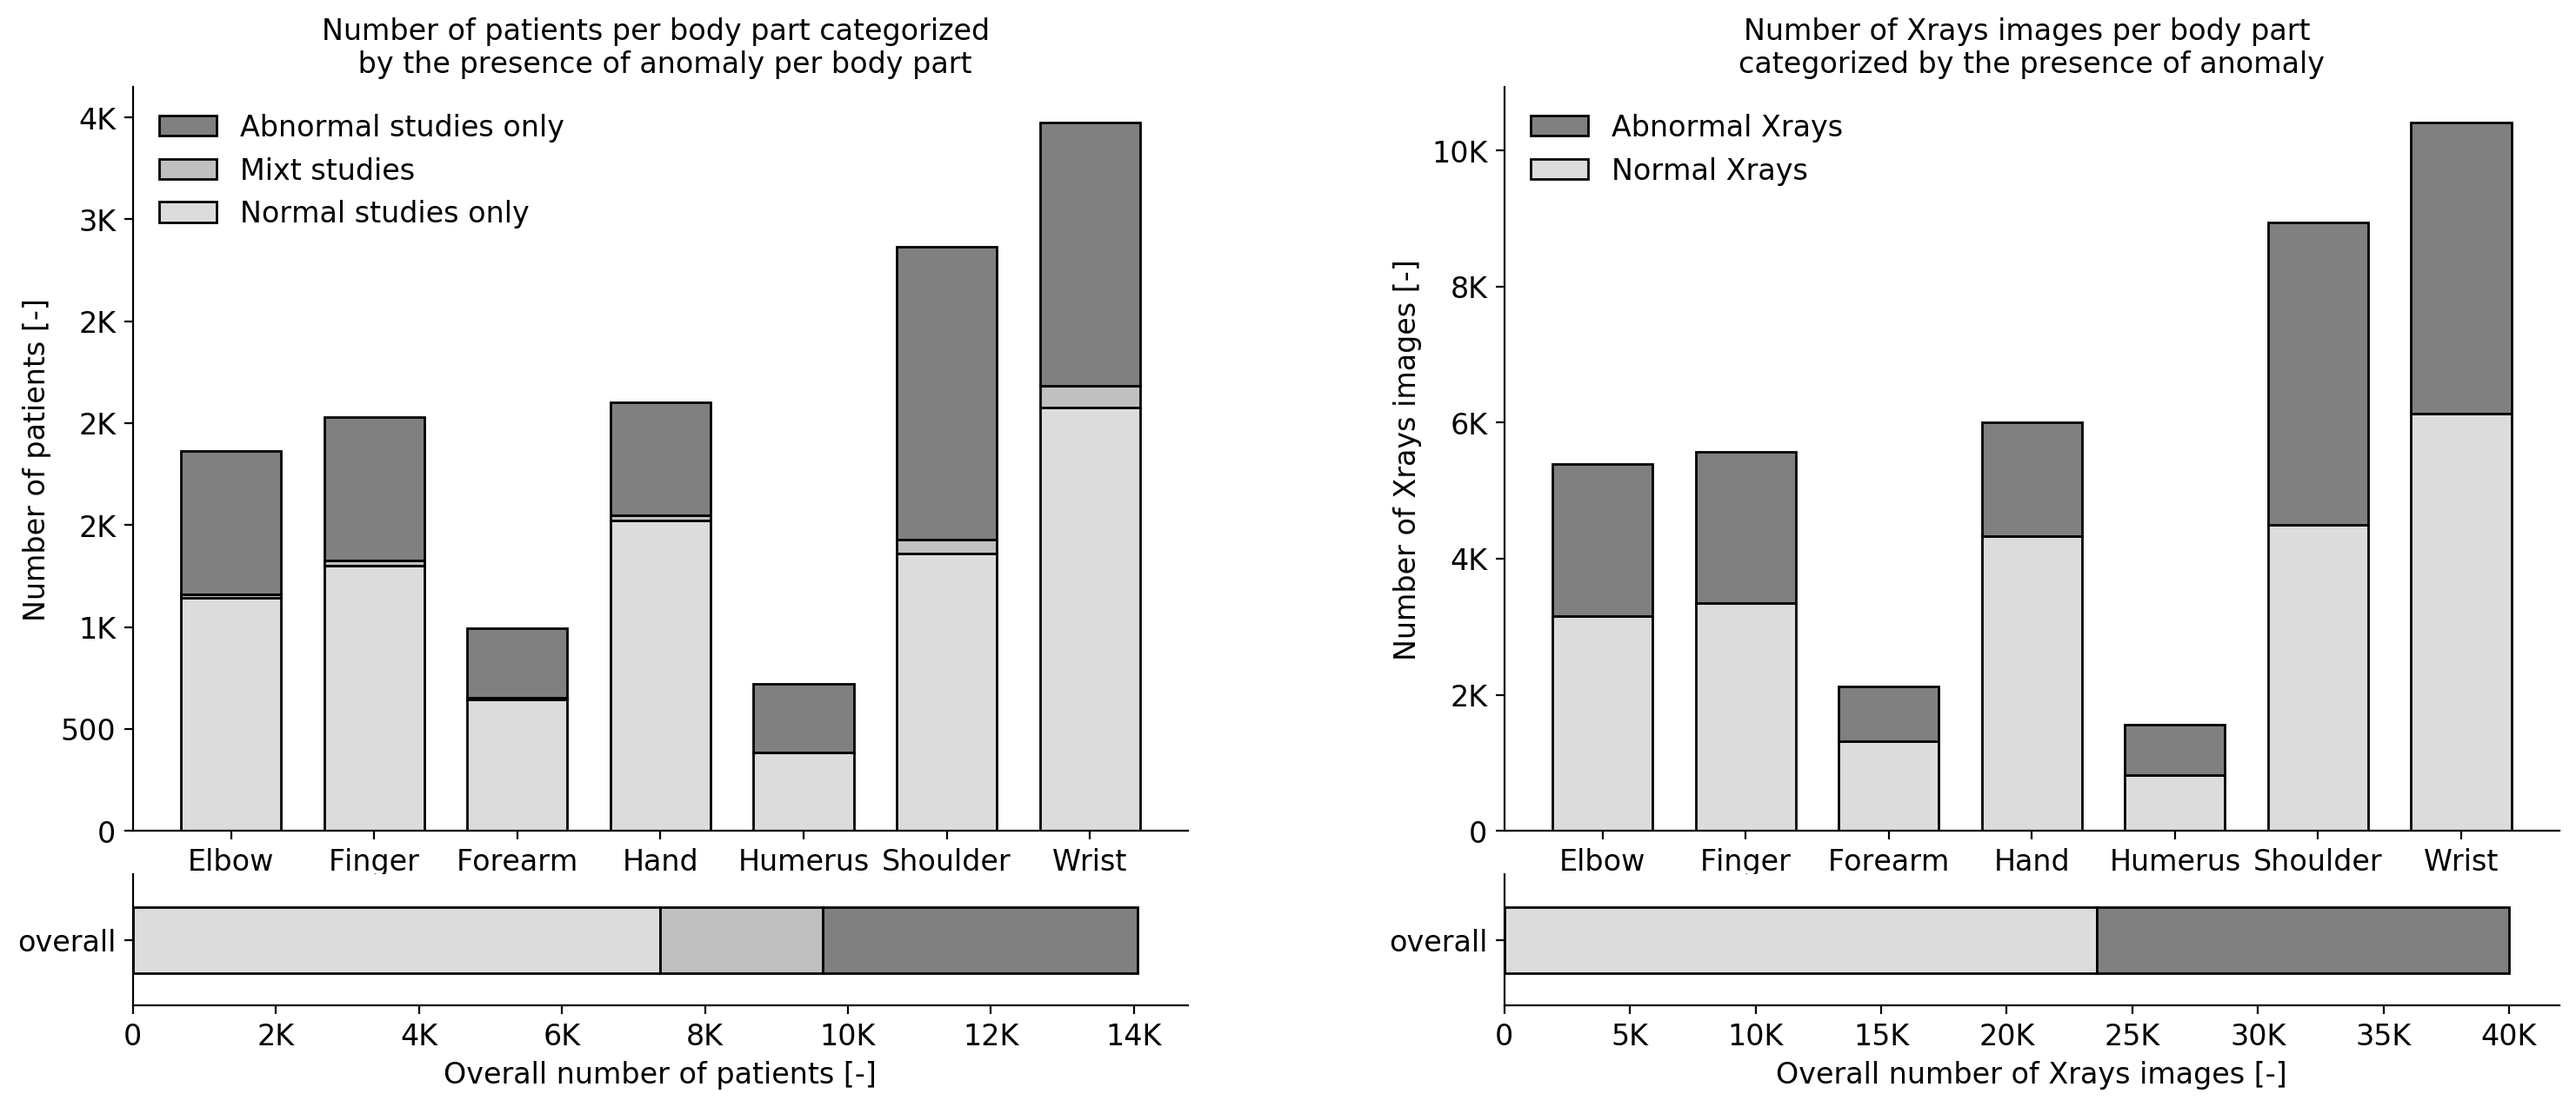
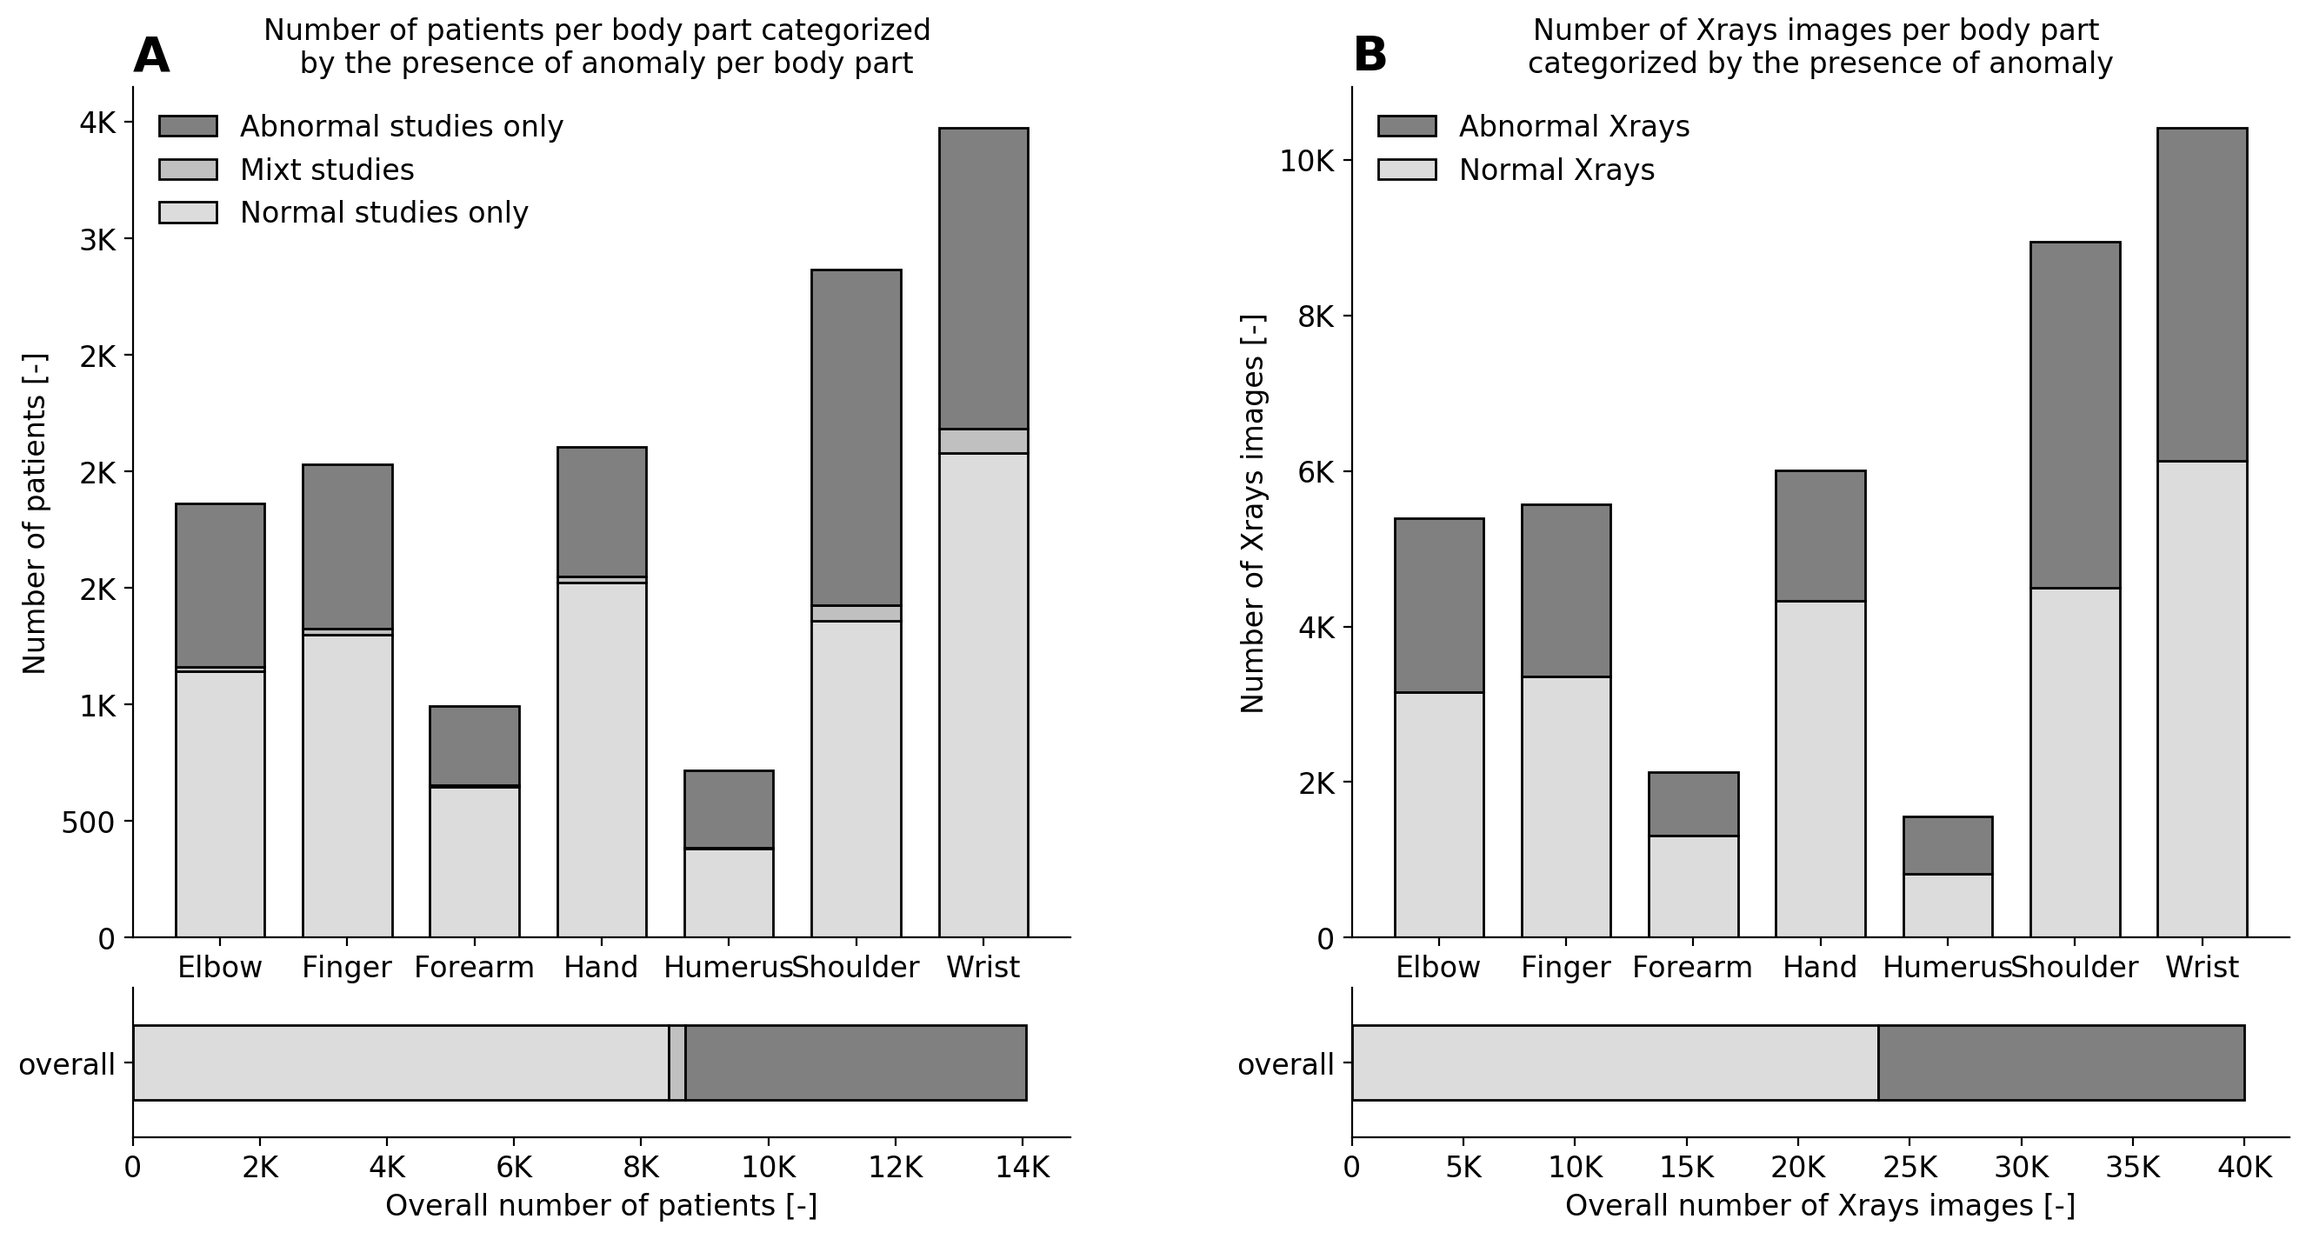
figures of rect cropping and online preprocessing + small change on others

diff --git a/Code/Figures_script/data_repartition.py b/Code/Figures_script/data_repartition.py
@@ -4,9 +4,9 @@ import pandas as pd
 import matplotlib
 import matplotlib.pyplot as plt
 
-DATA_PATH = r'../data/'
-OUTPUT_PATH = r'../Outputs/'
-FIGURE_PATH = r'../Figures/'
+DATA_PATH = r'../../data/'
+OUTPUT_PATH = r'../../Outputs/'
+FIGURE_PATH = r'../../Figures/'
 FIG_RES = 200 # dpi
 transparent = False
 
@@ -52,9 +52,9 @@ abnormal_xr_count = np.array(df_xr.loc[df_xr.abnormal_XR == 1, 'patientID'])
 # %% get overall numbers
 ################################################################################
 df_patient = df.groupby(['body_part', 'patientID']).mean()
-patient_normal = df_patient.patient_any_abnormal.value_counts()[0.0]
-patient_mixt = df_patient.patient_any_abnormal.value_counts()[0.5]
-patient_abnormal = df_patient.patient_any_abnormal.value_counts()[1.0]
+patient_normal = df_patient.body_part_abnormal.value_counts()[0.0]
+patient_mixt = df_patient.body_part_abnormal.value_counts()[0.5]
+patient_abnormal = df_patient.body_part_abnormal.value_counts()[1.0]
 xr_normal = df.abnormal_XR.value_counts()[0]
 xr_abnormal = df.abnormal_XR.value_counts()[1]
 
@@ -66,7 +66,7 @@ colors1 = ['gainsboro', 'silver', 'gray']
 colors2 = ['gainsboro', 'gray']
 
 #fig, axs = plt.subplots(2,2,figsize=(14,7), gridspec_kw={'height_ratios':[0.85, 0.15]})
-fig = plt.figure(figsize=(18,7))
+fig = plt.figure(figsize=(16,8))
 if transparent: fig.patch.set_alpha(0) # transparent background
 gs = fig.add_gridspec(2, 2, wspace=0.3, hspace=0.1, height_ratios=[0.85, 0.15])
 #===============================================================================
@@ -90,6 +90,7 @@ axp.spines['right'].set_visible(False)
 axp.spines['top'].set_visible(False)
 axp.tick_params(axis='both', labelsize=12)
 axp.yaxis.set_major_formatter(matplotlib.ticker.FuncFormatter(human_format))
+axp.text(0, 1.02, 'A', fontsize=20, fontweight='bold', transform=axp.transAxes)
 #===============================================================================
 # Overall plot
 axp_all = fig.add_subplot(gs[1,0])
@@ -126,6 +127,7 @@ axxr.spines['right'].set_visible(False)
 axxr.spines['top'].set_visible(False)
 axxr.tick_params(axis='both', labelsize=12)
 axxr.yaxis.set_major_formatter(matplotlib.ticker.FuncFormatter(human_format))
+axxr.text(0, 1.02, 'B', fontsize=20, fontweight='bold', transform=axxr.transAxes)
 #===============================================================================
 # Overall plot
 axxr_all = fig.add_subplot(gs[1,1])

diff --git a/Code/Figures_script/rectangle_cropping.py b/Code/Figures_script/rectangle_cropping.py
@@ -1,0 +1,63 @@
+import numpy as np
+import pandas as pd
+from skimage.color import rgb2gray
+from skimage.io import imread
+import matplotlib
+import matplotlib.pyplot as plt
+import sys
+sys.path.append('../')
+
+import src.preprocessing.cropping_rect as croprect
+
+DATA_PATH = r'../../data/'
+OUTPUT_PATH = r'../../Outputs/'
+FIGURE_PATH = r'../../Figures/'
+FIG_RES = 200 # dpi
+transparent = True
+save_fig = True
+
+# %% Load info and some example images
+################################################################################
+df = pd.read_csv(DATA_PATH+'data_info.csv')
+df = df.drop(df.columns[0], axis=1)
+
+df_cropped = df[df.uncropped == 0].reset_index()
+df_uncropped = df[df.uncropped == 1].reset_index()
+
+cropped_idx = [11000, 19000, 7000, 2000, 3000, 4000]
+uncropped_idx = [9000, 8000, 6000, 4500, 6500, 7500]
+#fn = df_cropped.loc[5000,'filename']
+#fn = df_uncropped.loc[9500,'filename']
+fn_crop = [df_cropped.loc[i,'filename'] for i in cropped_idx]
+fn_uncrop = [df_uncropped.loc[i,'filename'] for i in uncropped_idx]
+
+# %%
+img = imread(DATA_PATH+'RAW/'+fn_crop[0])
+
+rects = croprect.find_squares(img, min_area=40000)
+img_cropped = croprect.crop_squares(rects, img)
+
+fig, axs = plt.subplots(1,2,figsize=(10,6))
+if transparent: fig.set_alpha(0)
+
+axs[0].imshow(img, cmap='Greys_r')
+for r in rects[1:]:
+    axs[0].add_patch(matplotlib.patches.Polygon(r, lw=1, ec='red', fc=(0,0,0,0)))
+
+axs[0].add_patch(matplotlib.patches.Polygon(rects[0], lw=2, ec='dodgerblue', fc=(0,0,0,0)))
+axs[0].set_title('Original image with detected rectangles')
+axs[0].set_axis_off()
+handles = [matplotlib.patches.Patch(lw=1, ec='red', fc=(0,0,0,0)),
+           matplotlib.patches.Patch(lw=2, ec='dodgerblue', fc=(0,0,0,0))]
+labels = ['Detected rectangles', 'Selected rectangle']
+lgd = axs[0].legend(handles, labels, loc='lower left', ncol=1, fontsize=12,
+                frameon=False, bbox_to_anchor=(0, 0))
+for t in lgd.get_texts(): t.set_color('lightgray')
+
+axs[1].imshow(img_cropped, cmap='Greys_r')
+axs[1].set_title('Extracted images')
+axs[1].set_axis_off()
+fig.tight_layout()
+
+if save_fig: fig.savefig(FIGURE_PATH+'rect_cropping_sample.png', dpi=FIG_RES, bbox_inches='tight', bbox_extra_artist=(lgd,))
+plt.show()

diff --git a/Code/Figures_script/online_preprocessing_sample.py b/Code/Figures_script/online_preprocessing_sample.py
@@ -1,0 +1,42 @@
+import numpy as np
+import pandas as pd
+import matplotlib
+import matplotlib.pyplot as plt
+import sys
+sys.path.append('../')
+
+import src.datasets.MURADataset as MURA
+
+DATA_PATH = r'../../data/'
+OUTPUT_PATH = r'../../Outputs/'
+FIGURE_PATH = r'../../Figures/'
+FIG_RES = 200 # dpi
+transparent = False
+save_fig = True
+
+# %% Get data info
+df = pd.read_csv(DATA_PATH+'data_info.csv')
+df = df.drop(df.columns[0], axis=1)
+df = df[df.low_contrast == 0]
+
+# %% split data
+spliter = MURA.MURA_TrainValidTestSplitter(df, train_frac=0.5, ratio_known_normal=0.05, ratio_known_abnormal=0.05, random_state=42)
+spliter.split_data(verbose=True)
+
+train_df = spliter.get_subset('train')
+
+# %% make dataset
+dataset = MURA.MURA_Dataset(train_df, DATA_PATH+'PROCESSED/')
+
+# %% figures
+################################################################################
+img_idx = 13
+
+fig, axs = plt.subplots(2, 5, figsize=(12,5), gridspec_kw={'hspace':0.01, 'wspace':0.01})
+if transparent: fig.set_alpha(0)
+for ax in axs.reshape(-1):
+    im, _, _, _, _ = dataset.__getitem__(img_idx)
+    ax.imshow(im[0,:,:], cmap='Greys_r', vmin=0, vmax=1)
+    ax.set_axis_off()
+if save_fig : fig.savefig(FIGURE_PATH+'online_preprocessing_sample.png', dpi=FIG_RES, bbox_inches='tight')
+plt.show()

diff --git a/Code/Figures_script/segmentation.py b/Code/Figures_script/segmentation.py
@@ -7,9 +7,9 @@ import matplotlib.pyplot as plt
 
 #import src.preprocessing.segmentation as seg
 
-DATA_PATH = r'../data/'
-OUTPUT_PATH = r'../Outputs/'
-FIGURE_PATH = r'../Figures/'
+DATA_PATH = r'../../data/'
+OUTPUT_PATH = r'../../Outputs/'
+FIGURE_PATH = r'../../Figures/'
 FIG_RES = 200 # dpi
 transparent = True
 save_fig = True
@@ -26,11 +26,11 @@ bodypart = list(df2.body_part)
 ################################################################################
 m_color, m_alpha = 'limegreen', 0.25
 
-fig, axs = plt.subplots(4, 4, figsize=(18,18))
+fig, axs = plt.subplots(4, 4, figsize=(13,13))
 if transparent: fig.set_alpha(0)
 for f, fm, bp, ax in zip(fn, fn_mask, bodypart, axs.reshape(-1)):
     ax.set_axis_off()
-    ax.set_title(bp.title())
+    ax.set_title(bp.title(), fontsize=12)
     img, mask = imread(DATA_PATH+'PROCESSED/'+f), imread(DATA_PATH+'PROCESSED/'+fm)
     m = np.ma.masked_where(mask == 0, mask)
     ax.imshow(img, cmap='Greys_r')#, vmin=0, vmax=1)

diff --git a/Code/Figures_script/data_split_summary.py b/Code/Figures_script/data_split_summary.py
@@ -2,12 +2,14 @@ import numpy as np
 import pandas as pd
 import matplotlib
 import matplotlib.pyplot as plt
+import sys
+sys.path.append('../')
 
 import src.datasets.MURADataset as MURA
 
-DATA_PATH = r'../data/'
-OUTPUT_PATH = r'../Outputs/'
-FIGURE_PATH = r'../Figures/'
+DATA_PATH = r'../../data/'
+OUTPUT_PATH = r'../../Outputs/'
+FIGURE_PATH = r'../../Figures/'
 FIG_RES = 200 # dpi
 transparent = False
 
